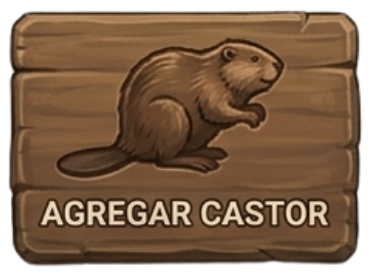
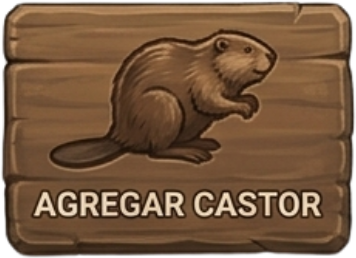
Fix BOTON.png background transparency, clean HUD bottom styling, and prepare step-by-step modular development

diff --git a/style.css b/style.css
@@ -198,6 +198,35 @@ html, body {
   max-width: 850px;
 }
 
+.pure-image-btn {
+  background: transparent !important;
+  border: none !important;
+  padding: 0 !important;
+  margin: 0 !important;
+  cursor: pointer;
+  outline: none;
+  display: inline-block;
+  box-shadow: none !important;
+}
+
+.pure-image-btn img {
+  height: 80px;
+  width: auto;
+  display: block;
+  object-fit: contain;
+  filter: drop-shadow(0 6px 14px rgba(0,0,0,0.8));
+  transition: transform 0.2s ease, filter 0.2s ease;
+}
+
+.pure-image-btn:hover img {
+  transform: scale(1.08) translateY(-3px);
+  filter: drop-shadow(0 10px 24px rgba(212,175,55,0.7));
+}
+
+.pure-image-btn:active img {
+  transform: scale(0.95);
+}
+
 .news-btn {
   flex: 1;
   display: flex;
